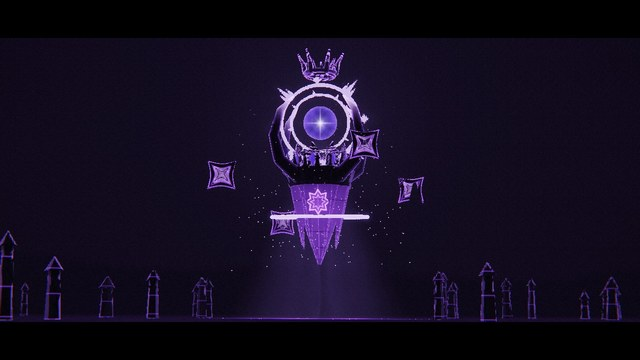
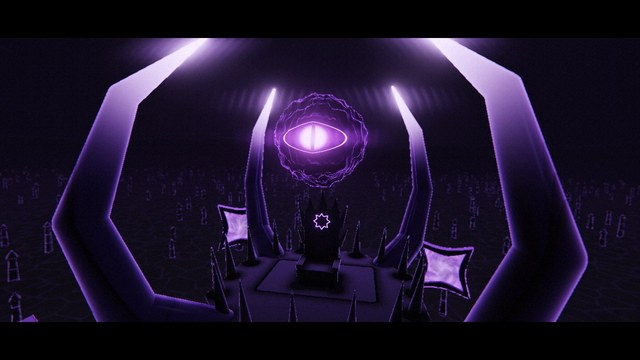
MONARCH V2: 대관식 서사
버려진 옥좌(밤의 평원 · 번개) → 부름(차원문이 하나씩 열리고 눈이 무언가를 찾는다)
→ 솟아오름(땅이 갈라지고 190m 의 몸이 옥좌를 떠받친 채 땅속에서 솟음 · 네 뿔이 자라남)
→ 깨어남(옥좌 위로 공허가 모여 12.6 눈이 뜨임)
→ 대관(여덟 다이아가 날아와 맞물림 · 두 후광이 스스로 그려짐 · 공허가 흰 별 구슬로 응축 · 여섯 뿔 왕관이 하늘에서 내려와 씌워짐 · 빛의 장막)
→ 복종(오벨리스크들이 가까운 것부터 물결처럼 지배자를 향해 고개를 숙임 · 모든 차원문의 눈)
→ 승천(더 높이 떠오르고 충격파 · 폭풍 구름이 소용돌이로 열림) → MONARCH.
음악의 흐름(금관 → 일격 → 오르간 · 합창 → 타이코 → 충격파 → 마지막 화음)에 서사를 맞춤. 4K 녹화 21~39ms.

Changed region(s): [[0.0, 0.0917, 0.9688, 0.9167], [0.7188, 0.55, 0.75, 0.6111]]

diff --git a/public/monarch2_gl.html b/public/monarch2_gl.html
@@ -15,20 +15,17 @@
 <script>
 "use strict";
 /* ═══════════════════════════════════════════════════════════════
-   MONARCH V2 — 광활한 평원을 가로지르는 거대한 지배자 (실시간 3D · 사람 없음 · 대사 없음 · 30초 · 4K 저장)
-   형체(아래에서 위로, 높이 약 190m): 거꾸로 선 흑요석 첨탑의 몸(8각 별 문장 · 빛나는 이음새 · 매달린 수정 조각) · 아랫부분을 두른 연보라 고리
-   · 몸에서 솟아 구슬을 감싸는 X 자의 네 뿔 · 반시계로 도는 8개 다이아 왕관 · 서로 반대로 도는 두 후광과 흰 별을 품은 남보라 구슬 · 여섯 뿔 검은 왕관.
-   곁에는 눈이 뜨이는 네 개의 차원문이 돈다. 구슬이 내리는 빛의 장막과 발밑의 균열 문양 · 글자 고리가 함께 움직인다.
-   장소: 끝없는 어두운 평원 · 먼 산맥 · 흩어진 오벨리스크(20~40m, 크기 비교용) · 번개 구름.
-   장면이 바뀔 때마다 번쩍 · 픽셀로 흩어졌다 모이는 전환(픽셀레이션처럼). 음원: tools/make_monarch_audio.py (오리지널, 시각 T 같음)
-     0      지평선 너머에서 다가오는 빛(망원) · 번개가 산맥을 비춘다
-     4.0    오벨리스크 사이를 도는 차원문 — 검은 흰자의 보라 눈이 오른쪽에서 왼쪽으로
-     7.5    땅에서 올려다봄 — 지배자가 머리 위를 지나가며 빛의 장막이 쓸고 간다
-     11.5   구슬 앞 — 12.6 흰 별이 타오르고 보라 눈이 뜨인다
-     14.5   공중에서 나란히 날며 — 도는 왕관 · 후광 · 뿔
-     18.5   멀리 옆에서 — 오벨리스크 평원 위를 미끄러지는 전체 · 20.5 네 차원문의 눈
-     22.5   멈춘다 — 23.8 충격파가 평원을 쓸고 번개 폭풍
-     26.0   정면 앙각 — MONARCH
+   MONARCH V2 — 대관식 (실시간 3D · 사람 없음 · 대사 없음 · 30초 · 4K 저장)
+   서사: 버려진 옥좌 → 부름 → 땅에서 솟는 몸 → 깨어남 → 대관 → 온 땅이 무릎 꿇음 → 승천
+     0      빈 옥좌 — 끝없는 밤의 평원, 번개가 버려진 흑요석 옥좌를 비춘다
+     4.0    부름 — 옥좌 둘레에 차원문이 하나씩 열리고, 눈 하나가 오른쪽에서 왼쪽으로 무언가를 찾는다
+     7.5    솟아오름 — 땅이 갈라지고 높이 190m 의 몸(거꾸로 선 흑요석 첨탑)이 옥좌를 떠받친 채 땅속에서 솟는다 · 네 뿔이 터져 나와 감긴다
+     11.5   깨어남 — 옥좌 위로 어둠이 모여 공허가 되고, 12.6 그 속에서 보라 눈이 뜨인다
+     14.5   대관 — 여덟 다이아가 날아와 왕관으로 맞물리고 · 두 후광이 스스로 그려지고 · 공허가 흰 별을 품은 구슬로 응축되고 · 여섯 뿔 왕관이 하늘에서 내려와 씌워진다 · 빛의 장막
+     18.5   복종 — 평원의 오벨리스크들이 가까운 것부터 차례로 지배자를 향해 고개를 숙이고, 모든 차원문의 눈이 그를 본다
+     22.5   승천 — 더 높이 떠오르고 23.8 충격파가 땅을 쓸며 폭풍 구름이 소용돌이로 열린다
+     26.0   MONARCH
+   장면이 바뀔 때마다 번쩍 · 픽셀로 흩어졌다 모이는 전환. 음원: tools/make_monarch_audio.py (오리지널, 시각 T 같음)
    ═══════════════════════════════════════════════════════════════ */
 const TAU = Math.PI * 2, PI = Math.PI;
 const clamp = (x, a = 0, b = 1) => Math.min(b, Math.max(a, x));
@@ -47,7 +44,7 @@ const CUTS = [T.PORT, T.RISE, T.FACE, T.HALO, T.WIDE, T.POWER, T.HERO];
 const SPEED = 14, Z0 = -300;
 const monZ = (t) => Z0 + SPEED * (t < T.POWER - 1 ? t : (T.POWER - 1) + (1 - Math.pow(1 - seg(t, T.POWER - 1, T.POWER + 1), 2)) * 1);   // 22.5 에 멈춘다(부드럽게)
 const monPos = (t) => [Math.sin(t * .21) * 6, 2 * Math.sin(t * .6), monZ(t)];
-const portAt = (t, i) => { const m = monPos(t), a = i * PI / 2 + PI / 4 + t * .12; return [m[0] + Math.cos(a) * 80, 100 + 22 * Math.sin(t * .5 + i * 1.7) + m[1], m[2] + Math.sin(a) * 80]; };
+const portAt = (t, i) => { const up = t < T.RISE ? 0 : t < T.POWER ? 90 * eOut(seg(t, T.RISE, T.FACE)) : 90 + 40 * eInOut(seg(t, T.POWER, T.HERO + .6)), a = i * PI / 2 + PI / 4 + t * .12; return [Math.cos(a) * 62, 18 + up + 8 * Math.sin(t * .5 + i * 1.7), Math.sin(a) * 62]; };
 const BOLTS = [[T.L1, 1], [T.L2, 2], [8.8, 3], [T.IGNITE, 4], [16.2, 5], [T.STARE, 6], [T.SHOCK, 7], [27.4, 8]];
 { const r = rng(99); for (let t = T.POWER + .1; t < T.HERO - .2; t += .18 + r() * .3) BOLTS.push([t, 20 + Math.floor(r() * 900)]); BOLTS.sort((a, b) => a[0] - b[0]); }
 
@@ -59,7 +56,7 @@ let Wd = 0, Hd = 0, U = 0, DPR = 1, DPR_CAP = 2, SCALE = 1, slow = 0, time = 0, 
 /* ═════════════════ 셰이더 ═════════════════ */
 const FS_SCENE = `#version 300 es
 precision highp float; in vec2 vUv; out vec4 o;
-uniform vec2 uRes; uniform float uT, uFocal, uEyeK, uFlash, uShock, uPower, uSpinA, uOrbI, uCrackK; uniform vec3 uCamPos, uM; uniform mat3 uCam; uniform int uZero; uniform vec2 uPort[4]; uniform vec3 uPortP[4]; uniform sampler2D uAtlas;
+uniform vec2 uRes; uniform float uT, uFocal, uEyeK, uFlash, uShock, uPower, uSpinA, uOrbI, uCrackK, uVoidK, uOrbK, uHornK, uCrownK, uHaloK, uTopK, uRingK, uBowT, uVortex, uEmerge; uniform float uPortK[4]; uniform vec3 uCamPos, uM; uniform mat3 uCam; uniform int uZero; uniform vec2 uPort[4]; uniform vec3 uPortP[4]; uniform sampler2D uAtlas;
 ${CSGL.NOISE}
 const vec3 LC = vec3(.62, .45, 1.);
 const float OY = 150.;
@@ -77,8 +74,18 @@ float sdRC(vec3 p, vec3 a, vec3 b, float r1, float r2){ vec3 ba = b - a; float l
 float sdStarN(vec2 p, float r, float n, float m){ float an = 3.141593 / n, en = 3.141593 / m; vec2 acs = vec2(cos(an), sin(an)), ecs = vec2(cos(en), sin(en)); float bn = mod(atan(p.x, p.y), 2. * an) - an;   // n 각 별
   p = length(p) * vec2(cos(bn), abs(sin(bn))); p -= r * acs; p += ecs * clamp(-dot(p, ecs), 0., r * acs.y / ecs.y); return length(p) * sign(p.x); }
 
+float throne(vec3 p){
+  float d = sdRBox(p - vec3(0., 8., -3.), vec3(11., 5.2, 8.5), .6);
+  d = min(d, sdRBox(vec3(abs(p.x) - 11.4, p.y - 15.8, p.z + 1.), vec3(1.9, 1.1, 8.2), .5)); d = min(d, sdRBox(vec3(abs(p.x) - 11.4, p.y - 11.5, p.z - 5.6), vec3(1.4, 3.8, 1.4), .3));
+  float bk = sdRBox(p - vec3(0., 30., -11.), vec3(11.8, 18., 1.8), .5); bk = max(bk, -sdBox(vec3(abs(p.x) - 6.2, p.y - 24., p.z + 9.1), vec3(3.4, 8.5, .35)));   // 등받이 판의 홈
+  bk = min(bk, sdRC(p, vec3(0., 46., -11.), vec3(0., 63., -11.), 3.4, .1)); vec3 ax = vec3(abs(p.x), p.y, p.z);
+  bk = min(bk, sdRC(ax, vec3(8., 46., -11.), vec3(9.2, 57., -11.), 2.5, .1)); bk = min(bk, sdRC(ax, vec3(12.2, 38., -10.8), vec3(16.5, 52., -10.8), 2., .08)); bk = min(bk, sdRC(ax, vec3(12.4, 26., -10.8), vec3(17., 36., -10.8), 1.6, .08));
+  return min(d, bk); }
+
 float pshape(vec2 u){ vec2 a = abs(u); float mx = max(a.x, a.y) + 1e-4, mn = min(a.x, a.y), k = mn / mx; return mx - (5.2 - 1.1 * (1. - k * k)); }   // 모서리가 당겨진 사각형
 
+float voidSph(vec3 q0){ vec3 q = q0 - vec3(0., OY, 0.); float R = 11. * uVoidK, lq = length(q); if (R < .05) return lq + 1.;                          // 옥좌 위에 모이는 공허
+  float w = ((noise(q.xy * .5 + vec2(uT * .9, 0.)) + noise(q.yz * .6 - vec2(uT * .7)) - 1.) * 1. + (noise(q.xz * 1.3 + uT * 1.4) - .5) * .45) * uVoidK * smoothstep(.3, 1., lq / R); return (lq - R + w) * .7; }
 /* ── 몸: 거꾸로 선 흑요석 첨탑(8각) · 매달린 수정 조각 · 윗테두리의 가시 ── */
 float keel(vec3 q){ float bd = length(q - vec3(0., 80., 0.)) - 50.; if (bd > 2.) return bd;
   float an = atan(q.z, q.x), sc = .785398, a2 = mod(an + sc * .5, sc) - sc * .5, rr = length(q.xz), r = rr * cos(a2), h = clamp((q.y - 40.) / 72., 0., 1.), R = mix(1., 26., h);
@@ -90,23 +97,29 @@ float keel(vec3 q){ float bd = length(q - vec3(0., 80., 0.)) - 50.; if (bd > 2.)
 float horns(vec3 q){ vec3 a = q; a.xz = abs(a.xz); vec3 dr = vec3(.70711, 0., .70711);                                                                    // 몸에서 솟아 구슬을 감싸는 네 뿔
   vec3 P0 = dr * 22. + vec3(0., 106., 0.), P1 = dr * 40. + vec3(0., 117., 0.), P2 = dr * 46. + vec3(0., 135., 0.), P3 = dr * 40. + vec3(0., 155., 0.), P4 = dr * 27. + vec3(0., 168., 0.);
   float bd = length(a - dr * 36. - vec3(0., 136., 0.)) - 40.; if (bd > 2.) return bd;
-  float d = sdRC(a, P0, P1, 5., 4.2); d = min(d, sdRC(a, P1, P2, 4.2, 3.2)); d = min(d, sdRC(a, P2, P3, 3.2, 2.)); d = min(d, sdRC(a, P3, P4, 2., .12)); return d; }
-float lring(vec3 q){ vec3 w = q - vec3(0., 76., 0.); w.yz = rot(.08) * w.yz; return length(vec2(length(w.xz) - 37., w.y)) - .85; }
-vec2 crown8(vec3 q0){ vec3 q = (q0 - vec3(0., 119., 0.)) / 1.8; float bd = length(q) - 15.; if (bd > .5) return vec2(bd * 1.8, -1.);                         // 반시계로 도는 다이아 왕관
-  q.xz = rot(uSpinA) * q.xz; float r = length(q.xz), an = atan(q.z, q.x), sc = 6.2832 / 8., a2 = mod(an + sc * .5, sc) - sc * .5; vec3 l = vec3(cos(a2) * r - 11., q.y, sin(a2) * r);
+  if (uHornK <= 0.) return max(bd, 5.); float k = uHornK * 4.;                                                                                                   // 몸에서 터져 나와 자라난다
+  float d = sdRC(a, P0, mix(P0, P1, clamp(k, 0., 1.)), 5., mix(5., 4.2, clamp(k, 0., 1.)));
+  if (k > 1.) d = min(d, sdRC(a, P1, mix(P1, P2, clamp(k - 1., 0., 1.)), 4.2, mix(4.2, 3.2, clamp(k - 1., 0., 1.))));
+  if (k > 2.) d = min(d, sdRC(a, P2, mix(P2, P3, clamp(k - 2., 0., 1.)), 3.2, mix(3.2, 2., clamp(k - 2., 0., 1.))));
+  if (k > 3.) d = min(d, sdRC(a, P3, mix(P3, P4, clamp(k - 3., 0., 1.)), 2., mix(2., .12, clamp(k - 3., 0., 1.)))); return d; }
+float lring(vec3 q){ vec3 w = q - vec3(0., 76., 0.); w.yz = rot(.08) * w.yz; return length(vec2(length(w.xz) - 37., w.y)) - .85 * uRingK + (1. - uRingK) * 3.; }
+vec2 crown8(vec3 q0){ if (uCrownK <= 0.) return vec2(1e3, -1.); float ck = 1. - uCrownK, RR = 11. + 40. * ck * ck; vec3 q = (q0 - vec3(0., 119. + 50. * ck * ck, 0.)) / 1.8; float bd = length(q) - (15. + 40. * ck * ck); if (bd > .5) return vec2(bd * 1.8, -1.);                         // 반시계로 도는 다이아 왕관
+  q.xz = rot(uSpinA) * q.xz; float r = length(q.xz), an = atan(q.z, q.x), sc = 6.2832 / 8., a2 = mod(an + sc * .5, sc) - sc * .5; vec3 l = vec3(cos(a2) * r - RR, q.y, sin(a2) * r); l.xy = rot(ck * 6.) * l.xy;
   float dia = sdOcta(vec3(l.x * 1.1, l.y * .62, l.z), 1.7) * .62, frm = abs(sdOcta(vec3(l.x * 2.6, l.y * .5, l.z), 2.9) * .5) - .1; frm = max(frm, abs(l.x) - .3);
   float rods = min(sdCap(vec3(l.x, l.y, abs(l.z)), vec3(0., -3.2, 2.7), vec3(0., 3.2, 2.7), .13), sdCap(vec3(l.x, l.y, abs(l.z)), vec3(0., 3.2, 2.7), vec3(0., 4.6, 1.2), .1));
-  float ring = min(length(vec2(r - 11., q.y + 3.3)) - .12, length(vec2(r - 11., q.y - 3.3)) - .1); gE = min(gE, (dia + .3) * 1.8); return opU(vec2(dia * 1.8, 7.), vec2(min(min(frm, rods), ring) * 1.8, 8.)); }
+  float ring = min(length(vec2(r - RR, q.y + 3.3)) - .12, length(vec2(r - RR, q.y - 3.3)) - .1) + ck * 8.; gE = min(gE, (dia + .3) * 1.8); return opU(vec2(dia * 1.8, 7.), vec2(min(min(frm, rods), ring) * 1.8, 8.)); }
 vec2 halos(vec3 q0){ vec3 h = (q0 - vec3(0., OY, 0.)) / 1.8; float bd = length(h) - 27.; if (bd > .5) return vec2(bd * 1.8, -1.);                              // 두 후광과 흰 별을 품은 구슬
-  vec2 r = vec2((length(h) - 7.) * 1.8, 10.);
+  vec2 r = uOrbK > .01 ? vec2((length(h) - 7. * uOrbK) * 1.8, 10.) : vec2(1e3, -1.);
   vec2 b = rot(uSpinA * -.7) * h.xy; float rr = length(b), an = atan(b.y, b.x), sc = .785398, id = floor(an / sc + .5), a2 = an - id * sc; vec2 w = vec2(cos(a2), sin(a2)) * rr;
   float ring = length(vec2(rr - 17., h.z)) - .5, sp;
   if (mod(id, 2.) < .5){ sp = sdRC(vec3(w, h.z), vec3(17.3, 0., 0.), vec3(24.5, 0., 0.), .9, .04); sp = min(sp, sdRC(vec3(w.x, abs(w.y), h.z), vec3(17.3, 1.7, 0.), vec3(21.2, 1.9, 0.), .6, .04)); }
   else { sp = sdRC(vec3(w, h.z), vec3(17.3, 0., 0.), vec3(19.6, 0., 0.), .6, .04); vec3 dq = vec3(w.x - 19.2, w.y, h.z * 2.); sp = min(sp, max(sdOcta(dq, 1.25) * .5, -(sdOcta(dq, .75) * .5 - .03))); sp = min(sp, sdOcta(dq, .5) * .5); }
   vec2 b2 = rot(uSpinA * 1.) * h.xy; float r2 = length(b2), an2 = atan(b2.y, b2.x), a3 = mod(an2 + .3927, .785398) - .3927; vec2 w2 = vec2(cos(a3), sin(a3)) * r2;
   float ring2 = min(length(vec2(r2 - 12.5, h.z - .6)) - .35, sdRC(vec3(w2, h.z - .6), vec3(12.7, 0., 0.), vec3(14.4, 0., 0.), .45, .03));
-  float hl = min(min(ring, sp), ring2); gE = min(gE, (hl + .15) * 1.8); return opU(r, vec2(hl * 1.8, 9.)); }
-float topCrown(vec3 q0){ vec3 q = (q0 - vec3(0., 190., 0.)) / 1.8; float bd = length(q) - 13.; if (bd > .5) return bd * 1.8;                                   // 여섯 뿔 검은 왕관
+  float af = fract(atan(b.y, b.x) / 6.2832 + .25), af2 = fract(atan(b2.y, b2.x) / 6.2832 + .75);                                                              // 원을 따라 스스로 그려진다
+  ring = max(ring, (af - uHaloK) * rr * 6.2832); sp = max(sp, (af - uHaloK) * rr * 6.2832); ring2 = max(ring2, (af2 - uHaloK) * r2 * 6.2832);
+  float hl = min(min(ring, sp), ring2); if (uHaloK <= 0.) hl = 1e3; gE = min(gE, (hl + .15) * 1.8); return opU(r, vec2(hl * 1.8, 9.)); }
+float topCrown(vec3 q0){ if (uTopK <= 0.) return 1e3; float tk = 1. - uTopK; vec3 q = (q0 - vec3(0., 190. + 140. * tk * tk, 0.)) / 1.8; q.xz = rot(tk * 4.) * q.xz; float bd = length(q) - 13.; if (bd > .5) return bd * 1.8;                                   // 여섯 뿔 검은 왕관
   q.xz = rot(uSpinA * 1.1) * q.xz; float r = length(q.xz), an = atan(q.z, q.x), sc = 6.2832 / 6., a2 = mod(an + sc * .5, sc) - sc * .5; vec3 l = vec3(cos(a2) * r, q.y, sin(a2) * r);
   float ring = min(length(vec2(r - 6.5, q.y)) - .7, length(vec2(r - 6., q.y + 1.4)) - .35);
   float hn = min(sdRC(l, vec3(6.5, 0., 0.), vec3(7.8, 4.5, 0.), 1.1, .6), sdRC(l, vec3(7.8, 4.5, 0.), vec3(10.5, 9.5, 0.), .6, .03)); hn = min(hn, sdRC(l, vec3(6.2, .5, 2.2), vec3(6.8, 3.4, 2.6), .35, .02));
@@ -114,19 +127,23 @@ float topCrown(vec3 q0){ vec3 q = (q0 - vec3(0., 190., 0.)) / 1.8; float bd = le
 vec3 portalQ(vec3 p, int i){ vec3 c = uPortP[i], q = (p - c) / 1.9; vec3 f = normalize(vec3(uCamPos.x - c.x, 0., uCamPos.z - c.z)); float a = atan(f.x, f.z); q.xz = rot(-a) * q.xz; return q; }   // 늘 이쪽을 보는 차원문
 vec2 portals(vec3 p){ vec2 r = vec2(1e9, -1.);
   for (int i = uZero; i < 4; i++){ vec3 c = uPortP[i]; float bd = length(p - c) - 15.; if (bd > 1.){ r = opU(r, vec2(bd, -1.)); continue; }
-    vec3 q = portalQ(p, i); float s = pshape(q.xy), fr = max(abs(s + .55) - .55, abs(q.z) - .75) - .05, mem = max(s + .9, abs(q.z) - .08); gE = min(gE, (mem + .4) * 1.9);
-    r = opU(r, vec2(fr * 1.9, 5.)); r = opU(r, vec2(mem * 1.9, 6. + float(i) * .1)); }
+    float pk = uPortK[i]; if (pk <= .01){ r = opU(r, vec2(max(bd, 3.), -1.)); continue; } vec3 q = portalQ(p, i) / pk; float s = pshape(q.xy), fr = max(abs(s + .55) - .55, abs(q.z) - .75) - .05, mem = max(s + .9, abs(q.z) - .08); gE = min(gE, (mem + .4) * 1.9);
+    r = opU(r, vec2(fr * 1.9 * pk, 5.)); r = opU(r, vec2(mem * 1.9 * pk, 6. + float(i) * .1)); }
   return r; }
-vec2 obelisk(vec3 p){ if (p.y > 52.) return vec2(p.y - 50., -1.); vec2 cid = floor(p.xz / 70.), lc = p.xz - (cid + .5) * 70.; float edge = min(35. - abs(lc.x), 35. - abs(lc.y)) + 2.;                    // 평원에 흩어진 오벨리스크(크기 비교용)
+vec2 obelisk(vec3 p){ if (p.y > 56.) return vec2(p.y - 54., -1.); vec2 cid = floor(p.xz / 70.), lc = p.xz - (cid + .5) * 70.; float edge = min(35. - abs(lc.x), 35. - abs(lc.y)) + 2.;                    // 평원에 흩어진 오벨리스크(크기 비교용)
   if (hash(cid) < .72 || abs((cid.x + .5) * 70.) < 60.) return vec2(edge, -1.); vec2 j = (vec2(hash(cid + 1.), hash(cid + 2.)) - .5) * 30.; float H = 20. + 22. * hash(cid + 3.), w = 2.4 + 1.6 * hash(cid + 4.);
-  vec3 q = vec3(lc.x - j.x, p.y, lc.y - j.y); q.xz = rot(hash(cid + 5.) * 3.) * q.xz; float tp = w * (1. - .35 * clamp(q.y / H, 0., 1.));
+  vec3 q = vec3(lc.x - j.x, p.y, lc.y - j.y); vec2 cw = (cid + .5) * 70. + j, dm = uM.xz - cw; float dist = length(dm);
+  float bow = uBowT > 0. ? .55 * smoothstep(0., 1.1, uT - uBowT - dist / 300.) : 0.; if (bow > 0.){ vec2 dn = dm / max(dist, 1.); float sx = dot(q.xz, dn); vec2 ry = rot(-bow) * vec2(sx, q.y); q.xz += dn * (ry.x - sx); q.y = ry.y; }   // 무릎 꿇는다
+  q.xz = rot(hash(cid + 5.) * 3.) * q.xz; float tp = w * (1. - .35 * clamp(q.y / H, 0., 1.));
   float d = max(max(abs(q.x) - tp, abs(q.z) - tp), abs(q.y - H * .5) - H * .5); d = min(d, max(max(abs(q.x), abs(q.z)) - (H + w * 2.2 - q.y) * .5, max(H - q.y, q.y - H - w * 2.2)));
   return d < edge ? vec2(d, 15.) : vec2(edge, -1.); }                                                                          // 칸 경계는 걸음 제한일 뿐, 표면이 아니다
 vec2 map(vec3 p){
   vec2 r = vec2(1e9, -1.); gE = 1e9; vec3 q = p - uM;
   r = opU(r, obelisk(p));
   float bd = length(q - vec3(0., 115., 0.)) - 105.;
-  if (bd < 2.){ r = opU(r, vec2(keel(q), 1.)); r = opU(r, vec2(horns(q), 4.)); float lr = lring(q); r = opU(r, vec2(lr, 12.)); gE = min(gE, lr + .5);
+  if (bd < 2.){ r = opU(r, vec2(keel(q), 1.)); r = opU(r, vec2(horns(q), 4.)); float lr = lring(q); r = opU(r, vec2(lr, 12.)); gE = min(gE, lr + .5 + (1. - uRingK) * 30.);
+    const float K = .42; float tb = sdBox(q - vec3(0., 126., -4.), vec3(14., 16., 9.)); if (tb < 1.) r = opU(r, vec2(throne((q - vec3(0., 112. - 2.8 * K, -2. + 3. * K)) / K) * K, 2.)); else r = opU(r, vec2(tb, -1.));   // 몸 위의 옥좌
+    if (uVoidK > .01) r = opU(r, vec2(voidSph(q), 17.));
     r = opU(r, crown8(q)); r = opU(r, halos(q)); r = opU(r, vec2(topCrown(q), 11.)); }
   else r = opU(r, vec2(bd, -1.));
   r = opU(r, portals(p));
@@ -135,19 +152,19 @@ vec2 map(vec3 p){
 vec3 normalAt(vec3 p, float t){ float e = .006 + t * .0004; vec3 n = vec3(0.); for (int i = uZero; i < 4; i++){ vec3 k = .5773 * (2. * vec3(float(((i + 3) >> 1) & 1), float((i >> 1) & 1), float(i & 1)) - 1.); n += k * map(p + e * k).x; } return normalize(n); }
 float calcAO(vec3 p, vec3 n){ float o = 0., s = 1.; for (int i = uZero; i < 4; i++){ float h = .4 + 1.6 * float(i); o += (h - map(p + n * h).x) * s; s *= .6; } return clamp(1. - .5 * o, 0., 1.); }
 vec3 sky(vec3 rd){ float y = rd.y, az = atan(rd.x, -rd.z); vec3 c = mix(vec3(.018, .008, .034), vec3(.002, .001, .006), smoothstep(-.02, .6, y));
-  vec2 q = rd.xz / (abs(y) + .12) * 1.2; float cl = fbm(q * .6 + vec2(uT * .01, 0.)) * .7 + fbm(q * 1.7 - uT * .015) * .3; c += vec3(.07, .025, .15) * pow(cl, 3.) * (1. + 7. * uFlash) * smoothstep(.0, .25, y);   // 번개 구름
+  vec2 q = rd.xz / (abs(y) + .12) * 1.2; if (uVortex > 0.){ float lq = length(q); q = rot(uVortex * 2.6 / (1. + lq * .35)) * q; } float cl = fbm(q * .6 + vec2(uT * .01, 0.)) * .7 + fbm(q * 1.7 - uT * .015) * .3; c += vec3(.07, .025, .15) * pow(cl, 3.) * (1. + 7. * uFlash + 2.5 * uVortex) * smoothstep(.0, .25, y); c += LC * uVortex * .25 * exp(-length(q) * 1.4) * smoothstep(.2, .7, y);   // 번개 구름
   vec3 od = normalize(uM + vec3(0., OY, 0.) - uCamPos); c += LC * pow(max(dot(rd, od), 0.), 10.) * .12 * uOrbI;
   float mh = .012 + .05 * fbm(vec2(az * 2.2, 3.)) + .025 * fbm(vec2(az * 7., 9.)); if (y < mh && y > -.01){ vec3 mc = vec3(.012, .008, .022) + vec3(.1, .05, .2) * smoothstep(mh - .01, mh, y) * (.3 + 2. * uFlash); c = mc; }   // 먼 산맥
   vec2 sq = floor(rd.xy / (rd.z + 1.6) * 320.); c += vec3(.6, .5, 1.) * step(.9975, hash(sq)) * .45 * smoothstep(.1, .5, y); return c; }
-vec3 orbLight(vec3 p){ vec3 L = uM + vec3(0., OY, 0.) - p; float d = length(L); return LC * uOrbI * 70000. / (d * d + 26000.); }
+vec3 orbLight(vec3 p){ vec3 L = uM + vec3(0., OY, 0.) - p; float d = length(L); return LC * uOrbI * (.12 + .88 * uOrbK) * 70000. / (d * d + 26000.); }
 float veilK(vec3 p){ vec3 v = p - (uM + vec3(0., OY - 14., 0.)); float al = -v.y; if (al < 0.) return 0.; float rad = length(v.xz), R = al * .5 + 8.; return smoothstep(R, R * .55, rad); }
 vec3 floorCol(vec3 p, vec3 rd, float t){
   vec2 q = p.xz - uM.xz; float r = length(q), aa = t * 1.5 / uRes.y / max(-rd.y, .02);
   vec3 col = vec3(.011, .009, .015) * (.6 + .6 * fbm(p.xz * .03)) * (.8 + .4 * fbm(p.xz * .4)); float rough = .4 + .3 * fbm(p.xz * .2);
   vec2 g = p.xz * .035; vec2 gi = floor(g), gf = fract(g); float d1 = 8., d2 = 8.;
   for (int j = -1; j <= 1; j++) for (int i = -1; i <= 1; i++){ vec2 c = vec2(float(i), float(j)), o2 = vec2(hash(gi + c), hash(gi + c + 7.1)); float d = length(c + o2 - gf); if (d < d1){ d2 = d1; d1 = d; } else if (d < d2) d2 = d; }
-  float crack = smoothstep(.035 + aa * .03, 0., d2 - d1), zone = smoothstep(95., 30., r), pul = .7 + .3 * sin(uT * 1.7 - r * .08);                           // 발밑의 균열 문양(지배자와 함께 움직인다)
-  col += vec3(.45, .12, 1.) * crack * (zone * 1.6 * pul + .05) * uCrackK;
+  float crack = smoothstep(.035 + aa * .03, 0., d2 - d1), zone = smoothstep(95., 30., r) * uCrackK + smoothstep(60., 20., r) * uEmerge * 1.5, pul = .7 + .3 * sin(uT * 1.7 - r * .08);                           // 발밑의 균열 문양(지배자와 함께 움직인다)
+  col += vec3(.45, .12, 1.) * crack * (zone * 1.6 * pul + .05 * uCrackK) + vec3(.8, .55, 1.) * smoothstep(40., 26., r) * smoothstep(20., 27., r) * uEmerge * 1.2;
   if (r > 70. && r < 78.){ float an = atan(q.y, q.x) / 6.2832 + .5, v = (r - 70.) / 8.; float a = texture(uAtlas, vec2(fract(an * 5. - uT * .01), v)).r; col += vec3(.75, .6, 1.) * a * 1.4 * uCrackK + vec3(.5, .35, 1.) * smoothstep(.05, 0., min(v, 1. - v)) * .6 * uCrackK; }
   col += vec3(.55, .35, 1.) * smoothstep(.6, 0., abs(r - 84.)) * .9 * uCrackK;
   if (uShock > 0.){ float w = abs(r - uShock); col += vec3(.8, .6, 1.) * exp(-w * .12) * 2.5 * (1. - smoothstep(300., 700., uShock)) + vec3(.5, .2, 1.) * crack * smoothstep(uShock, uShock - 80., r) * 2. * (1. - smoothstep(250., 700., uShock)); }
@@ -163,6 +180,7 @@ vec3 shade(vec3 p, vec3 n, vec3 rd, float id, float t){
     float band = smoothstep(.5, 0., abs(fract((q.y - 40.) / 12.) - .5) * 12. - 5.6) * step(q.y, 99.); em += vec3(.5, .18, 1.) * (seam * .6 + band * .35) * (.7 + .3 * sin(uT * 2. - q.y * .05));
     if (abs(an - 1.5708) < .39 && q.y > 70. && q.y < 99.){ vec2 sq = vec2(q.x, q.y - 86.); float st = sdStarN(sq, 9., 8., 3.2), st2 = sdStarN(sq, 5.5, 8., 3.6);
       em += vec3(.6, .25, 1.) * (smoothstep(.35, 0., abs(st) - .3) * 2. + smoothstep(.3, -1., st) * .2 + smoothstep(.3, 0., abs(st2) - .2) * 1.2) * (1. + .6 * uPower); } }
+  else if (id < 2.5){ alb = vec3(.02, .015, .03); rough = .22; metal = .6; vec2 sq = vec2(q.x, q.y - 112. - (41. - 2.8) * .42); if (q.z > -8.5 && abs(sq.x) < 3.5 && abs(sq.y) < 3.5){ float st = sdStarN(sq, 2.3, 8., 3.2); em += vec3(.55, .2, 1.) * smoothstep(.12, 0., abs(st) - .06) * 1.6; } }
   else if (id < 4.5){ alb = vec3(.025, .01, .05); rough = .3; vec3 a = q; a.xz = abs(a.xz); float tipK = smoothstep(40., 0., length(a - (vec3(.70711, 0., .70711) * 27. + vec3(0., 168., 0.)))), an = atan(a.z - a.x, 1.);   // 뿔
     float vein = smoothstep(.06, 0., .5 - abs(fract(dot(a.xz, vec2(.7071, -.7071)) * .18) - .5)) * .7; em += vec3(.4, .12, .95) * vein * (.15 + .5 * tipK) + mix(vec3(.2, .04, .5), vec3(.9, .7, 1.), tipK) * 1.4 * pow(tipK, 2.2) * (1. + 1.5 * uPower) + vec3(.45, .2, 1.) * pow(1. - ndv, 4.) * .3; }
   else if (id < 5.5){ alb = vec3(.02, .015, .03); rough = .25; metal = .8; em += vec3(.45, .15, 1.) * pow(1. - ndv, 2.) * .6; }
@@ -180,9 +198,17 @@ vec3 shade(vec3 p, vec3 n, vec3 rd, float id, float t){
     float op = min(uEyeK, 1.), sh = pow(abs(w.x) / .5, 1.25) + pow(abs(w.y) / (.2 * op + 1e-3), 2.); if (op > .01 && sh < 1.){ float ir = length(w * vec2(1., 1.2)); em = mix(em, vec3(.9, .35, 1.) * (2. + 2. * max(uEyeK - 1., 0.)) * smoothstep(.25, .1, ir) + vec3(.05, 0., .1), .85); em *= 1. - smoothstep(.02, 0., abs(w.x) - .018) * step(abs(w.y), .17) * .95; } }
   else if (id < 11.5){ alb = vec3(.03, .02, .05); rough = .2; metal = 1.; em += vec3(.5, .25, 1.) * pow(1. - ndv, 2.5) * 1.2; }
   else if (id < 12.5){ alb = vec3(0.); em += vec3(.8, .65, 1.) * 1.4 * (1. + 2. * uPower); }
+  else if (id > 16.5){ vec3 v = q - vec3(0., OY, 0.); float R = 11. * uVoidK; vec2 e = v.xy / max(R, .1); alb = vec3(0.); rough = 1.;                        // 공허 · 눈
+    em = vec3(.002, 0., .005) + vec3(.5, .18, 1.) * pow(1. - ndv, 5.) * .9 + vec3(.25, .06, .6) * pow(fbm(n.xy * 3.5 + vec2(uT * .5, -uT * .3)), 5.) * .25;
+    float op = min(uEyeK, 1.), over = max(uEyeK - 1., 0.);
+    if (v.z > 0. && op > .005){ float sh = pow(abs(e.x) / .64, 1.25) + pow(abs(e.y) / (.3 * op), 2.);
+      if (sh < 1.){ float ir = length(e * vec2(1., 1.15)), fib = .75 + .25 * sin(atan(e.y, e.x) * 38. + fbm(e * 12.) * 4.); em = vec3(.02, 0., .04) + vec3(.8, .3, 1.) * smoothstep(.31, .16, ir) * fib * (1.4 + 2.5 * over) + vec3(1., .8, 1.) * smoothstep(.11, .03, ir) * (.45 + 1.5 * over);
+        float slit = smoothstep(.012, 0., abs(e.x) - (.022 + .03 * (1. - abs(e.y) / .24))) * step(abs(e.y), .24); em *= 1. - slit * .97; }
+      em += vec3(.85, .45, 1.) * smoothstep(.05, 0., abs(sh - 1.)) * (.9 + 1.5 * over); } }
   else { alb = vec3(.018, .016, .022); rough = .6; vec2 cid = floor(p.xz / 70.); em += vec3(.45, .15, 1.) * smoothstep(.04, 0., .5 - abs(fract(p.y * .08 + hash(cid)) - .5)) * .35;   // 오벨리스크
     li *= 1.; }
   vec3 f0 = mix(vec3(.04), alb * 3. + .05, metal), spec = f0 * pow(max(dot(n, hv), 0.), mix(900., 20., rough)) * (1. - rough) * 4.;
+  if (id > 16.5){ spec = vec3(0.); rim = vec3(0.); }
   vec3 col = (alb * (1. - metal) * ndl + spec * ndl) * li + rim * ao + vec3(.7, .6, 1.) * uFlash * .2 * alb * 6. + em;
   vec3 kd = normalize(vec3(.5, .45, .7)); col += (alb * (1. - metal * .6) * max(dot(n, kd), 0.) * .7 + f0 * pow(max(dot(n, normalize(kd - rd)), 0.), mix(500., 14., rough)) * (1. - rough) * 1.6) * vec3(.3, .25, .55) * ao;   // 은은한 달빛
   col += sky(reflect(rd, n)) * fres * (1. - rough) * .2 * ao;
@@ -192,7 +218,7 @@ vec3 veil(vec3 ro, vec3 rd, float tmax){                                        
   float sq = sqrt(di), t0 = max((-b - sq) / a, 0.), t1 = min((-b + sq) / a, tmax); if (t1 <= t0) return acc; float dt = (t1 - t0) / 24., j = hash(gl_FragCoord.xy + fract(uT) * 11.);
   for (int i = uZero; i < 24; i++){ vec3 x = ro + rd * (t0 + (float(i) + j) * dt), v = x - A; float al = -v.y; if (al < 0.) continue; float rad = length(v.xz), R = al * .5 + 8.;
     float inside = smoothstep(R, R * .5, rad), cur = .4 + .6 * pow(.5 + .5 * sin(atan(v.z, v.x) * 15. + fbm(vec2(atan(v.z, v.x) * 3., al * .02 - uT * .15)) * 6.), 3.); acc += inside * cur * exp(-al * .006) * dt; }
-  return LC * acc * .0024 * uOrbI; }
+  return LC * acc * .0024 * uOrbI * uOrbK; }
 void main(){
   vec2 s = (vUv - .5) * vec2(uRes.x / uRes.y, 1.) * 2.; vec3 ro = uCamPos, rd = normalize(uCam * vec3(s, uFocal)), col = sky(rd);
   float tf = rd.y < 0. ? -ro.y / rd.y : 1e9, t = .2, id = -1., glow = 0.; bool hit = false; float tl = min(tf, 3000.);
@@ -202,7 +228,7 @@ void main(){
   vec3 fogc = vec3(.008, .004, .016) + vec3(.1, .05, .22) * uFlash * .2; col = mix(col, fogc, 1. - exp(-min(depth, 4000.) * .0007));
   col += vec3(.6, .4, 1.) * glow * .01;
   col += veil(ro, rd, depth);
-  { vec3 v = uM + vec3(0., OY, 0.) - ro; float tc = max(dot(v, rd), 0.), d = length(v - rd * tc); col += LC * uOrbI * 1.2 / (1. + d * d * .0006) * .05 * step(tc, depth + 20.); }
+  { vec3 v = uM + vec3(0., OY, 0.) - ro; float tc = max(dot(v, rd), 0.), d = length(v - rd * tc); col += LC * uOrbI * 1.2 / (1. + d * d * .0006) * .05 * uOrbK * step(tc, depth + 20.); }
   o = vec4(max(col, 0.), min(depth, 4000.));
 }`;
 const FS_FINAL = `#version 300 es
@@ -256,7 +282,7 @@ const EMB = (() => { const r = rng(77), a = []; for (let i = 0; i < 260; i++) a.
 function drawOverlay(t, S) {
   tg.setTransform(1, 0, 0, 1, 0, 0); tg.clearRect(0, 0, tcv.width, tcv.height); tg.setTransform(DPR, 0, 0, DPR, 0, 0);
   const M = S.M;
-  tg.save(); for (const e of EMB) { const y = (e.y0 + t * e.sp) % 170, p = add(M, [Math.cos(e.a + t * .1) * e.r, 20 + y, Math.sin(e.a + t * .1) * e.r - 20 * (y / 170)]), q = proj(S, p); if (!q) continue;   // 지배자 곁에서 솟는 불티
+  tg.save(); if (t >= T.HALO) for (const e of EMB) { const y = (e.y0 + t * e.sp) % 170, p = add(M, [Math.cos(e.a + t * .1) * e.r, 20 + y, Math.sin(e.a + t * .1) * e.r - 20 * (y / 170)]), q = proj(S, p); if (!q) continue;   // 지배자 곁에서 솟는 불티
     const sz = Math.min(U * .06, Math.max(.6, e.s * S.focal * Hd / 2 / q[2] * .45)), al = Math.min(1, y / 20) * (1 - y / 170) * .8; tg.globalAlpha = al; tg.fillStyle = h1(e.a * 9) < .3 ? "#000" : "#c9a8ff"; tg.fillRect(q[0] - sz, q[1] - sz, sz * 2, sz * 2); } tg.restore();
   for (const [tb, sd] of BOLTS) { const k = t - tb; if (k < 0 || k > .32) continue; const vis = Math.floor(k * 30) % 3 !== 1 ? 1 - k / .32 : .25, [pts, br] = boltPath(sd, M), black = sd % 3 === 0; drawBolt(S, pts, vis, black); br.forEach((b) => drawBolt(S, b, vis * .6, black)); }
   if (t >= T.TITLE) { const k = eOut(seg(t, T.TITLE, T.TITLE + 1.4)), y = Hd * .78, sp = U * (.3 + .25 * (1 - k)); tg.save(); tg.globalAlpha = k * (1 - seg(t, T.END - .9, T.END - .4));
@@ -268,27 +294,34 @@ function drawOverlay(t, S) {
 
 /* ═════════════════ 연출: 시각 t → 지배자의 위치 · 카메라 (순수 함수) ═════════════════ */
 function state(t) {
-  const M = monPos(t), S = { M, focal: 1.3, focus: 200, aper: .06, eyeK: 0, port: new Float32Array(8), portP: new Float32Array(12), flash: 0, shock: -1, power: 0, crackK: 1, orbI: 1, fade: 0, shake: 0, rays: .4, bloom: .6 };
-  const br = [Math.sin(t * 1.1) * .3, Math.sin(t * 1.7 + 1) * .25, Math.sin(t * .8 + 2) * .3], at = (v) => add(M, v);
+  const up = t < T.RISE ? -112 : t < T.POWER ? -112 + 112 * eOut(seg(t, T.RISE, T.FACE - .2)) : 48 * eInOut(seg(t, T.POWER, T.HERO + .6)) + 2 * (t - T.POWER) * .3;   // 땅속에서 솟고 → 승천
+  const M = [0, up + (t >= T.FACE ? 1.5 * Math.sin(t * .6) : 0), 0], at = (v) => add(M, v);
+  const S = { M, focal: 1.3, focus: 200, aper: .06, eyeK: 0, port: new Float32Array(8), portP: new Float32Array(12), portK: new Float32Array(4), flash: 0, shock: -1, power: 0, crackK: 0, orbI: 1, fade: 0, shake: 0, rays: .4, bloom: .6,
+    voidK: 0, orbK: 0, hornK: 0, crownK: 0, haloK: 0, topK: 0, ringK: 0, bowT: 0, vortex: 0, emerge: 0 };
+  const br = [Math.sin(t * 1.1) * .3, Math.sin(t * 1.7 + 1) * .25, Math.sin(t * .8 + 2) * .3];
+  S.emerge = t >= T.RISE ? pulse(t, T.RISE, .3, 3.2) : 0; S.crackK = eOut(seg(t, T.RISE, T.FACE)) * .6 + .4 * eOut(seg(t, T.HALO, T.WIDE));
+  S.hornK = eOut(seg(t, 9.3, 11.3)); S.voidK = t < 15.6 ? eOut(seg(t, 10.6, 12.2)) : 1 - eInOut(seg(t, 15.6, 16.4)); S.eyeK = t >= T.IGNITE ? eOut(seg(t, T.IGNITE, T.IGNITE + .22)) + 1.4 * pulse(t, T.IGNITE, .02, .9) : 0;
+  S.crownK = eOut(seg(t, T.HALO, T.HALO + 1.1)); S.haloK = eInOut(seg(t, 15.0, 16.4)); S.orbK = eOut(seg(t, 15.7, 16.5)); S.topK = eIn(seg(t, 16.4, 17.4)) < 1 ? 1 - Math.pow(1 - seg(t, 16.4, 17.4), 2) : 1; S.ringK = eOut(seg(t, 17.2, 17.8));
+  S.bowT = t >= T.WIDE ? T.WIDE + .3 : 0; S.vortex = eInOut(seg(t, T.POWER, T.HERO + 1)); S.orbI = 1 + .7 * pulse(t, 16.4, .02, 1.2) + .5 * pulse(t, T.SHOCK, .02, 1.);
+  for (let i = 0; i < 4; i++) { const t0 = T.PORT + .15 + i * .55; S.portK[i] = t < t0 ? 0 : Math.min(1.08 - .08 * seg(t, t0 + .3, t0 + .6), eOut(seg(t, t0, t0 + .35)) * 1.08); }
   let cam;
-  if (t < T.PORT) { const k = seg(t, 0, T.PORT); cam = camera(add(mix3([70, 3, 520], [64, 3.4, 505], k), br), at([0, 105, 0]), .005); S.focal = 5.6; S.focus = 800; S.aper = .02; S.orbI = .35 + .45 * k; S.crackK = .5 + .5 * k; S.rays = .3; }   // 지평선 너머에서 다가온다(망원)
-  else if (t < T.RISE) { const k = seg(t, T.PORT, T.RISE), P1 = portAt(t, 0); cam = camera(add(add(P1, mix3([-26, 4, 34], [-20, 3, 26], eOut(k))), mul(br, .3)), add(P1, [0, .5, 0]), 0); S.focal = 1.6; S.focus = 36; S.aper = .45; S.rays = .15; }
-  else if (t < T.FACE) { const k = eInOut(seg(t, T.RISE, T.FACE)); cam = camera(add([30, 1.8, -130], br), mix3(at([0, 70, 30]), at([0, 110, -20]), k), -.02); S.focal = .82; S.focus = 90; S.aper = .05; }   // 머리 위를 지나간다
-  else if (t < T.HALO) { const k = eOut(seg(t, T.FACE, T.HALO)); cam = camera(add(at(mix3([40, 158, 120], [22, 152, 78], k)), mul(br, .2)), at([0, 150, 0]), .02); S.focal = 1.45; S.focus = lerp(130, 82, k); S.aper = .18; S.rays = .2; }   // 구슬 앞
-  else if (t < T.WIDE) { const k = eInOut(seg(t, T.HALO, T.WIDE)); cam = camera(add(at(mix3([170, 150, 90], [150, 110, -30], k)), mul(br, .4)), at([0, mix3([0, 120, 0], [0, 105, 0], k)[1], 0]), .06 * Math.sin(t * .6)); S.focal = 1.25; S.focus = 180; S.aper = .03; }   // 나란히 날며
-  else if (t < T.POWER) { const k = seg(t, T.WIDE, T.POWER); cam = camera(add(mix3([-150, 2.4, -46], [-140, 2.8, -24], k), br), at([0, 100, 0]), 0); S.focal = 1.05; S.focus = 150; S.aper = .03; S.rays = .35; }   // 멀리 옆에서 오벨리스크 평원 너머
-  else if (t < T.HERO) { const a = lerp(.4, .95, seg(t, T.POWER, T.HERO)), sh = 3 * pulse(t, T.SHOCK, .02, 1.); cam = camera(add(at([Math.sin(a) * 215, 22, Math.cos(a) * 215]), [(h1(t * 60) - .5) * sh, (h1(t * 60 + 3) - .5) * sh, 0]), at([0, 100, 0]), .02); S.focal = 1.1; S.focus = 215; S.aper = .03; S.rays = .45; }
-  else { const k = eOut(seg(t, T.HERO, T.END)); cam = camera(add(at(mix3([0, 2.2, 128], [0, 3, 106], k)), mul(br, .3)), at([0, 116, 0]), 0); S.focal = .9; S.focus = 120; S.aper = .03; S.rays = .45; }
+  if (t < T.PORT) { const k = seg(t, 0, T.PORT); cam = camera(add(mix3([22, 1.6, 104], [16, 1.8, 82], eOut(k)), mul(br, .15)), [0, 10, 0], .005); S.focal = 1.7; S.focus = 90; S.aper = .12; S.orbI = .6; S.rays = .1; }   // 빈 옥좌
+  else if (t < T.RISE) { const k = seg(t, T.PORT, T.RISE), P1 = portAt(t, 0); cam = camera(add(add(P1, mix3([-26, 4, 34], [-20, 3, 26], eOut(k))), mul(br, .3)), add(P1, [0, .5, 0]), 0); S.focal = 1.6; S.focus = 36; S.aper = .4; S.rays = .1; }   // 부름
+  else if (t < T.FACE) { const k = eInOut(seg(t, T.RISE, T.FACE)); cam = camera(add(mix3([36, 1.6, 78], [58, 2.4, 132], k), br), at([0, lerp(112, 128, k), 0]), -.01); S.focal = lerp(.95, .85, k); S.focus = 110; S.aper = .03; S.shake = .45 * (1 - k); }   // 땅속에서 솟아오른다
+  else if (t < T.HALO) { const k = eOut(seg(t, T.FACE, T.HALO)); cam = camera(add(at(mix3([18, 142, 92], [10, 146, 64], k)), mul(br, .1)), at([0, 140, 0]), .02); S.focal = 1.45; S.focus = lerp(96, 66, k); S.aper = .2; S.rays = .1; }   // 깨어남
+  else if (t < T.WIDE) { const k = seg(t, T.HALO, T.WIDE), a = lerp(.45, -.35, eInOut(k)); cam = camera(add(at([Math.sin(a) * 120, lerp(150, 175, k), Math.cos(a) * 120]), mul(br, .3)), at([0, lerp(145, 165, k), 0]), .02); S.focal = 1.15; S.focus = 120; S.aper = .04; S.rays = .3; }   // 대관
+  else if (t < T.POWER) { const k = seg(t, T.WIDE, T.POWER); cam = camera(add(mix3([-100, 2.6, 175], [-92, 2.9, 160], k), br), at([0, 118, 0]), 0); S.focal = 1.05; S.focus = 190; S.aper = .03; S.rays = .35; }   // 복종: 오벨리스크들이 고개를 숙인다
+  else if (t < T.HERO) { const k = seg(t, T.POWER, T.HERO), sh = 3 * pulse(t, T.SHOCK, .02, 1.); cam = camera(add([70, 2.4, 150], [(h1(t * 60) - .5) * sh, (h1(t * 60 + 3) - .5) * sh, 0]), at([0, 120, 0]), .02); S.focal = lerp(1.05, .85, eInOut(k)); S.focus = 200; S.aper = .03; S.rays = .45; }   // 승천
+  else { const k = eOut(seg(t, T.HERO, T.END)); cam = camera(add(mix3([0, 2.2, 150], [0, 3, 128], k), mul(br, .3)), at([0, 125, 0]), 0); S.focal = .9; S.focus = 150; S.aper = .03; S.rays = .45; }
   S.cam = cam;
-  S.eyeK = t >= T.IGNITE ? eOut(seg(t, T.IGNITE, T.IGNITE + .22)) + 1.4 * pulse(t, T.IGNITE, .02, .9) : 0; if (t >= T.IGNITE) S.orbI = Math.max(S.orbI, 1 + .7 * pulse(t, T.IGNITE, .02, 1.));
   for (let i = 0; i < 4; i++) S.portP.set(portAt(t, i), i * 3);
   const pv = (i, o, l) => { S.port[i * 2] = o; S.port[i * 2 + 1] = l; };
   { const o = Math.min(eOut(seg(t, T.EYEO, T.EYEO + .35)), 1 - eIn(seg(t, T.EYEC - .3, T.EYEC))); pv(0, o, lerp(1, -1, eInOut(seg(t, T.EYEO + .45, T.EYEC - .45)))); }
-  if (t >= T.STARE) for (let i = 0; i < 4; i++) { const o = t < T.POWER ? eOut(seg(t, T.STARE, T.STARE + .25)) : Math.max(0, Math.sin((t - T.POWER) * 1.4 + i * 1.7)) > .35 ? 1 : 0; pv(i, o, t < T.POWER ? 0 : Math.sin((t - T.POWER) * .9 + i)); }
+  if (t >= T.STARE) for (let i = 0; i < 4; i++) { const o = t < T.POWER ? eOut(seg(t, T.STARE, T.STARE + .25)) : Math.max(0, Math.sin((t - T.POWER) * 1.4 + i * 1.7)) > .35 ? 1 : 0; pv(i, o, 0); }
   for (const [tb] of BOLTS) S.flash = Math.max(S.flash, pulse(t, tb, .01, .25) * (tb > T.POWER && tb < T.HERO ? .35 : .6));
-  S.flash = Math.max(S.flash, .9 * pulse(t, T.IGNITE, .01, .3), .6 * pulse(t, T.STARE, .01, .3), 1.1 * pulse(t, T.SHOCK, .01, .45), .5 * pulse(t, T.HERO, .01, .6));
-  S.shock = t >= T.SHOCK && t < T.SHOCK + 2.6 ? (t - T.SHOCK) * 260 : -1; S.power = Math.max(pulse(t, T.SHOCK, .05, 1.6), t >= T.POWER && t < T.HERO ? .25 : 0, .6 * pulse(t, T.IGNITE, .02, .8));
-  S.shake = Math.max(pulse(t, T.IGNITE, .01, .4) * .5, pulse(t, T.SHOCK, .01, .9), .3 * pulse(t, T.STARE, .01, .4), .4 * pulse(t, T.HERO, .01, .5), t >= T.RISE && t < T.FACE ? .12 : 0);
+  S.flash = Math.max(S.flash, .9 * pulse(t, T.IGNITE, .01, .3), .5 * pulse(t, 16.4, .01, .4), .6 * pulse(t, 17.4, .01, .3), .6 * pulse(t, T.STARE, .01, .3), 1.1 * pulse(t, T.SHOCK, .01, .45), .5 * pulse(t, T.HERO, .01, .6));
+  S.shock = t >= T.SHOCK && t < T.SHOCK + 2.6 ? (t - T.SHOCK) * 260 : -1; S.power = Math.max(pulse(t, T.SHOCK, .05, 1.6), t >= T.POWER && t < T.HERO ? .25 : 0, .6 * pulse(t, T.IGNITE, .02, .8), .5 * pulse(t, 17.4, .02, 1.));
+  S.shake = Math.max(S.shake, pulse(t, T.IGNITE, .01, .4) * .5, pulse(t, T.SHOCK, .01, .9), .3 * pulse(t, T.STARE, .01, .4), .4 * pulse(t, T.HERO, .01, .5), .5 * pulse(t, 17.4, .01, .4));
   S.fade = Math.max(1 - seg(t, 0, .5), seg(t, T.END - .5, T.END - .1)); S.spinA = t * .4 + (t >= T.POWER ? (t - T.POWER) * .5 : 0);
   S.trans = CUTS.reduce((m, c) => Math.max(m, t < c ? Math.pow(seg(t, c - .14, c), 2) : 1 - seg(t, c, c + .24)), 0); S.flash = Math.max(S.flash, .45 * CUTS.reduce((m, c) => Math.max(m, pulse(t, c, .005, .12)), 0));
   return S;
@@ -299,7 +332,8 @@ function render(t) {
   const prog = P.scene(), u = prog.u, f1 = (n, v) => { if (u[n] != null) gl.uniform1f(u[n], v || 0); };
   X.pass(prog, RT.scene, () => { gl.uniform2f(u.uRes, sw, sh); f1("uT", t); if (u.uZero != null) gl.uniform1i(u.uZero, 0); gl.uniform3f(u.uCamPos, ...S.cam.pos); gl.uniform3f(u.uM, ...S.M); gl.uniformMatrix3fv(u.uCam, false, new Float32Array([...S.cam.r, ...S.cam.u, ...S.cam.f])); f1("uFocal", S.focal);
     if (u.uPort != null) gl.uniform2fv(u.uPort, S.port); if (u.uPortP != null) gl.uniform3fv(u.uPortP, S.portP); if (u.uAtlas != null) X.bindTex(4, atlasTex, u.uAtlas);
-    for (const [n, v] of [["uEyeK", S.eyeK], ["uFlash", S.flash], ["uShock", S.shock], ["uPower", S.power], ["uSpinA", S.spinA], ["uOrbI", S.orbI], ["uCrackK", S.crackK]]) f1(n, v); });
+    if (u.uPortK != null) gl.uniform1fv(u.uPortK, S.portK);
+    for (const [n, v] of [["uEyeK", S.eyeK], ["uFlash", S.flash], ["uShock", S.shock], ["uPower", S.power], ["uSpinA", S.spinA], ["uOrbI", S.orbI], ["uCrackK", S.crackK], ["uVoidK", S.voidK], ["uOrbK", S.orbK], ["uHornK", S.hornK], ["uCrownK", S.crownK], ["uHaloK", S.haloK], ["uTopK", S.topK], ["uRingK", S.ringK], ["uBowT", S.bowT], ["uVortex", S.vortex], ["uEmerge", S.emerge]]) f1(n, v); });
   const lp = proj(S, add(S.M, [0, 150, 0])), bloomTex = X.bloom(RT.scene.tex, 1.1), raysTex = X.rays(lp ? clamp(lp[0] / Wd) : .5, lp ? clamp(1 - lp[1] / Hd) : .9, .92), r0 = rng(Math.floor(t * 60)), hit = S.shake;
   X.pass(P.final(), null, (u2) => { X.bindTex(0, RT.scene.tex, u2.uScene); X.bindTex(1, bloomTex, u2.uBloom); X.bindTex(2, txtTex, u2.uTxt); X.bindTex(3, raysTex, u2.uRays); gl.uniform2f(u2.uRes, pw, ph); gl.uniform1f(u2.uT, t);
     gl.uniform2f(u2.uShake, (r0() - .5) * hit * .02, (r0() - .5) * hit * .02); gl.uniform1f(u2.uZoom, 1 + .02 * hit + .05 * S.trans); gl.uniform1f(u2.uCA, .0012 + .005 * hit);
@@ -311,9 +345,9 @@ function render(t) {
 const player = CSUI.create({
   stage: $("cs"), audio: bgm, volume: .9, duration: T.END, theme: "monarch", capBlend: false, recW: 3840, recH: 2160, maxMB: 100,
   no: "09", title: "MONARCH", sub: "모나크 · V2", hero: "/thumbs/monarch2_hero.jpg",
-  tagline: "끝없는 평원을 가로지르는 거대한 지배자.\n흰 별을 품은 구슬이 빛을 내리고 — 모든 것이 그 아래에 있다.",
+  tagline: "버려진 옥좌가 땅에서 솟아오르고, 왕관이 씌워진다.\n그리고 온 땅이 무릎을 꿇는다.",
   meta: [["0:30", "Length"], ["4K · 3D", "Renderer"], ["Original", "Score"]],
-  chapters: [{ t: 0, name: "the horizon" }, { t: T.PORT, name: "the eye" }, { t: T.RISE, name: "overhead" }, { t: T.FACE, name: "awaken" }, { t: T.HALO, name: "the crown" }, { t: T.WIDE, name: "dominion" }, { t: T.POWER, name: "power" }, { t: T.HERO, name: "MONARCH" }],
+  chapters: [{ t: 0, name: "the vacant throne" }, { t: T.PORT, name: "the summons" }, { t: T.RISE, name: "rising" }, { t: T.FACE, name: "awakening" }, { t: T.HALO, name: "coronation" }, { t: T.WIDE, name: "kneel" }, { t: T.POWER, name: "ascension" }, { t: T.HERO, name: "MONARCH" }],
   captions: [],
   prepare() { resize(); P.scene(); P.final(); },
   simulate(tt) { time = tt; },

diff --git a/public/cutscenes.html b/public/cutscenes.html
@@ -96,9 +96,9 @@ const CUTSCENES = [
   { id: "monarch", title: "MONARCH", ko: "모나크", page: "/monarch_gl.html", kit: true, thumb: "/thumbs/monarch.jpg", dur: "0:30",
     desc: "어둠의 옥좌에 앉은 거대한 지배자. 번개가 금 간 바닥과 X 자의 뿔을 비추고, 떠 있는 차원문에서 검은 눈이 훑고 지나간다. 발치에서 올려다보면 단상에 박힌 거대한 도끼와 빈 옥좌 — 그 위로 모여든 검은 공허 속에서 보라 눈이 뜨이고, 반시계로 도는 왕관 위 두 후광 사이에서 흰 별을 품은 구슬이 빛의 장막을 내린다. 100m 가 넘는 압도. 4K 저장.",
     tags: ["WebGL2", "3D 레이마칭", "오리지널 음악"], needsAudio: true },
-  { id: "monarch2", title: "MONARCH V2", ko: "모나크 · V2", page: "/monarch2_gl.html", kit: true, thumb: "/thumbs/monarch2.jpg", dur: "0:30",
-    desc: "끝없는 어두운 평원과 흩어진 오벨리스크 위를, 높이 190m 의 지배자가 미끄러지듯 가로지른다. 거꾸로 선 흑요석 첨탑의 몸 · 연보라 고리 · 구슬을 감싸는 네 뿔 · 도는 다이아 왕관 · 두 후광과 흰 별 구슬 · 여섯 뿔 왕관, 곁을 도는 차원문의 눈. 발밑엔 빛의 장막과 균열 문양이 함께 움직인다. 지평선의 망원 · 머리 위 통과 · 공중 추적 · 충격파, 장면마다 픽셀로 흩어졌다 모이는 전환. 사람 없음 · 4K 저장.",
-    tags: ["WebGL2", "3D 레이마칭", "광활한 평원"], needsAudio: true },
+  { id: "monarch2", title: "MONARCH V2", ko: "모나크 · 대관식", page: "/monarch2_gl.html", kit: true, thumb: "/thumbs/monarch2.jpg", dur: "0:30",
+    desc: "밤의 평원에 버려진 흑요석 옥좌. 차원문이 열려 무언가를 찾고 — 땅이 갈라지며 190m 의 몸이 옥좌를 떠받친 채 솟아오른다. 옥좌 위의 공허에서 눈이 뜨이고, 여덟 다이아가 날아와 왕관이 되고, 두 후광이 스스로 그려지고, 공허가 흰 별의 구슬로 응축되고, 여섯 뿔 왕관이 하늘에서 씌워진다. 평원의 오벨리스크들이 차례로 고개를 숙이고, 지배자는 폭풍을 열며 승천한다. 사람 없음 · 4K 저장.",
+    tags: ["WebGL2", "3D 레이마칭", "대관식 서사"], needsAudio: true },
 ];
 
 const $ = (id) => document.getElementById(id);
